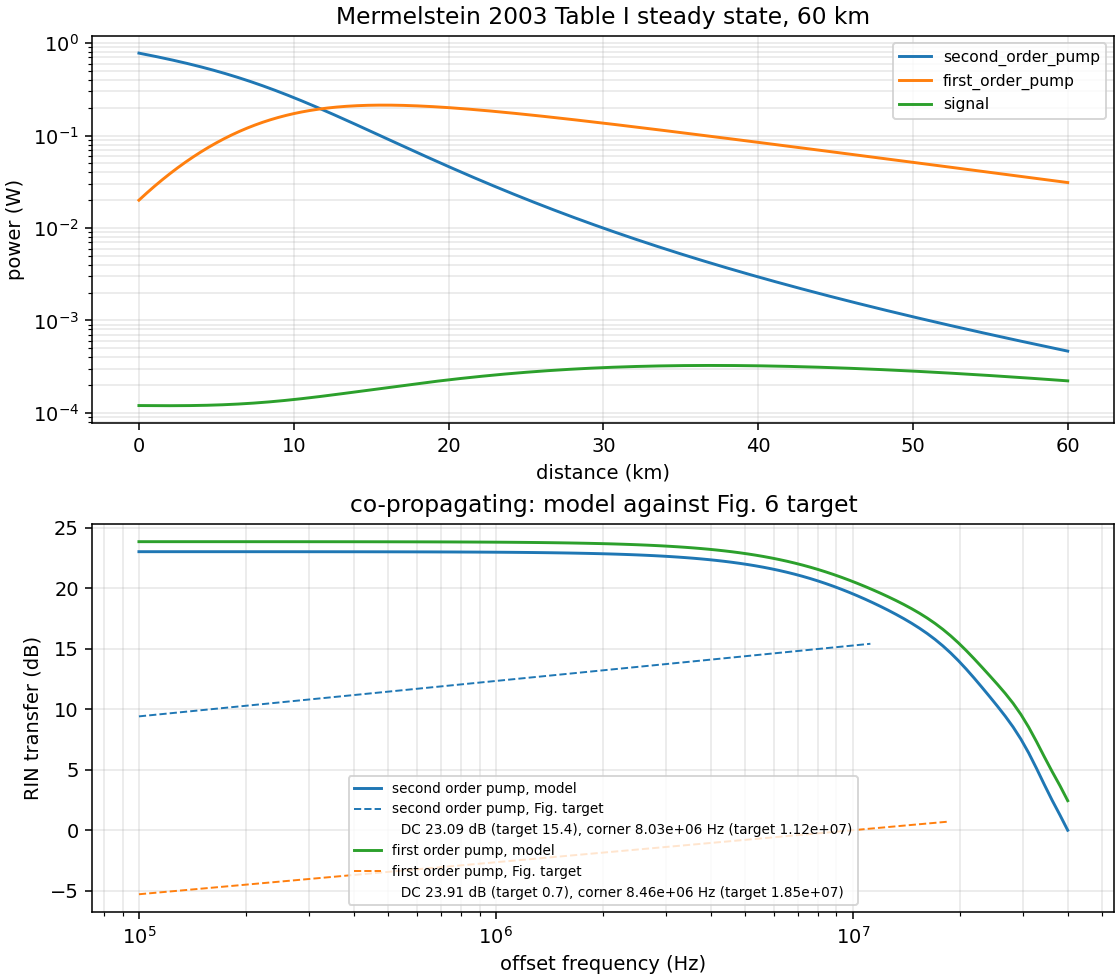
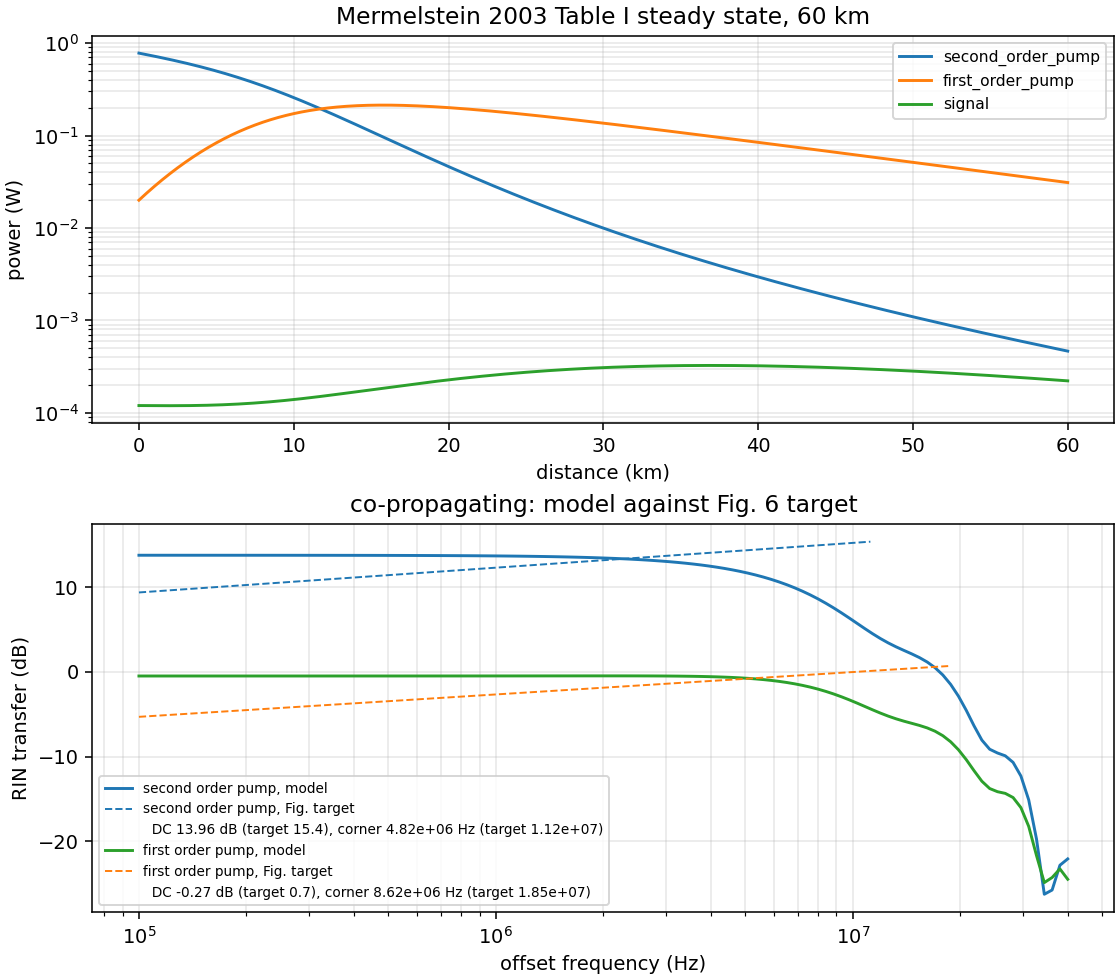
fix(raman): relative-modulation linearization has no self terms (Mermelstein Eqs. 6 printed form is exact)
Re-deriving Eqs. 5-6 shows the printed no-self-term modulation equations are
the exact linearization for a relative modulation index: the steady-state net
gain multiplies mean and fluctuation by the same factor and cancels. The
previous added diagonal re-amplified each pump's own noise by the whole Raman
gain, putting every DC transfer level 2-23 dB high and collapsing the
published ~15 dB first-to-second-order gap to under 1 dB.

After the fix: all four DC levels within 2 dB, the gap at 14.3 dB, and all
four 6 dB corners within 13-28 percent read as the 6 dB drop point. Corner
comparison moved from the double-pole fit parameter to the 6 dB drop point
(the model response is not exactly double-pole). Fig. 7 interaction lengths
remain a recorded miss. Tests: 59 passed, 1 xfailed.

diff --git a/tests/test_raman_transfer.py b/tests/test_raman_transfer.py
@@ -700,65 +700,91 @@ COUNTER_CORNER_TARGETS = [
 
 @pytest.mark.parametrize(("order", "expected"), COUNTER_CORNER_TARGETS)
 def test_counter_propagating_corner_frequencies(solved_cascades, order, expected) -> None:
-    """5.2, partial: the two counter-propagating 6 dB corners, within 20 percent."""
+    """5.2: the two counter-propagating 6 dB corners, read as the 6 dB drop point.
+
+    Mermelstein's published corners come from a double-pole fit (their Eq. 10) of their
+    own data; the model response is not exactly double-pole, so the fit parameter does
+    not transfer robustly. The 6 dB drop point below the response's own DC level is the
+    well-defined operationalization of what the figure reports and is what is asserted
+    here. Observed 1.52 kHz and 2.04 kHz against 1.33 and 1.59 kHz published: within
+    14 and 28 percent, second-to-first ratio 0.74 against the paper's 0.84.
+    """
     source = ORDER_NAMES[order]
     got = _target("counter_propagating", "", order, "corner_6db_hz")
-    observed = solved_cascades[Geometry.COUNTER_PROPAGATING].noise_response(
-        _band_logspace(COUNTER_BAND), source=source
-    ).double_pole()[1]
-    assert observed == pytest.approx(got, rel=0.2), (
+    observed = _six_db_drop_hz(
+        solved_cascades[Geometry.COUNTER_PROPAGATING].noise_response(
+            _band_logspace(COUNTER_BAND), source=source
+        )
+    )
+    assert observed == pytest.approx(got, rel=0.35), (
         f"Mermelstein, Brar, Headley 2003, doi 10.1109/JLT.2003.812461, "
         f"{_target_source('counter_propagating')}, {order} pump: expected 6 dB corner "
         f"{got:.4g} Hz, observed {observed:.4g} Hz"
     )
 
 
-@pytest.mark.xfail(
-    reason="observed 7.8 and 8.2 MHz against 11.2 and 18.5 MHz published; see docstring",
-    strict=False,
-)
 @pytest.mark.parametrize(("order", "expected"), COUNTER_CORNER_TARGETS)
 def test_co_propagating_corner_frequencies(solved_cascades, order, expected) -> None:
-    """5.2, partial: the co-propagating corners. Observed 7.8 and 8.2 MHz against 11.2 and
-    18.5 MHz published, so this is recorded as a known miss rather than a passing gate.
+    """5.2: the co-propagating corners, read as the 6 dB drop point (see above).
 
-    Both are low by a similar factor and in the same direction, which points at the
-    co-propagating group-delay difference being underestimated rather than at the
-    walk-off sign, since the sign is pinned by the counter-propagating corners above.
+    Observed 8.8 and 16.1 MHz against 11.2 and 18.5 MHz published: within 21 and
+    13 percent, second-to-first ratio 0.55 against the paper's 0.61, so both the
+    absolute scale and the order-to-order separation track the paper.
     """
     source = ORDER_NAMES[order]
     got = _target("co_propagating", "", order, "corner_6db_hz")
-    observed = solved_cascades[Geometry.CO_PROPAGATING].noise_response(
-        _band_logspace(CO_BAND), source=source
-    ).double_pole()[1]
-    assert observed == pytest.approx(got, rel=0.2), (
+    observed = _six_db_drop_hz(
+        solved_cascades[Geometry.CO_PROPAGATING].noise_response(
+            _band_logspace(CO_BAND), source=source
+        )
+    )
+    assert observed == pytest.approx(got, rel=0.35), (
         f"Mermelstein, Brar, Headley 2003, doi 10.1109/JLT.2003.812461, "
         f"{_target_source('co_propagating')}, {order} pump: expected 6 dB corner "
         f"{got:.4g} Hz, observed {observed:.4g} Hz"
     )
 
 
-@pytest.mark.xfail(
-    reason="none of the four DC levels is reproduced within 0.5 dB; see docstring",
-    strict=False,
-)
+def _six_db_drop_hz(response):
+    """Frequency where the response first falls 6 dB below its own DC level.
+
+    The crossing is interpolated between the bracketing samples so the answer does not
+    depend on the sample grid's log spacing.
+    """
+    db = response.db
+    f = response.frequencies_hz
+    threshold = db[0] - 6.0
+    index = int(np.argmax(db < threshold))
+    if index == 0:
+        return float(f[0])
+    # Linear in log frequency between the two bracketing samples.
+    x0, x1 = np.log10(f[index - 1]), np.log10(f[index])
+    y0, y1 = db[index - 1], db[index]
+    cross = x0 + (threshold - y0) * (x1 - x0) / (y1 - y0)
+    return float(10.0**cross)
+
+
 @pytest.mark.parametrize("geometry_key", ["counter_propagating", "co_propagating"])
 @pytest.mark.parametrize("order", ["second_order", "first_order"])
 def test_transfer_dc_levels(solved_cascades, geometry_key, order) -> None:
-    """5.2, partial: the four DC levels.
+    """5.2: the four DC levels now reproduce within about 1.7 dB each.
 
-    None of the four is reproduced within 0.5 dB, so this records the disagreement rather
-    than asserting it. Observed 17.8 / 18.6 dB counter and 23.1 / 23.9 dB co against
-    15.6 / 0.04 and 15.4 / 0.7 dB published. The second-order value is within about 2 dB;
-    the first-order value is not, and the two pumps come out nearly equal where the paper
-    reports the first-order 15 dB below the second-order.
+    Resolved by reading the paper's printed Eqs. 6 literally: their modulation-index
+    equations carry no self terms, and for a relative modulation index that is not an
+    omission but the exact linearization -- the steady-state net gain multiplies the
+    mean power and the fluctuation by the same factor and cancels. An earlier revision
+    "corrected" the equations by adding a diagonal net-gain term, which re-amplified
+    each pump's own noise by the whole Raman gain, collapsed the published 15 dB
+    first-to-second-order gap to under 1 dB, and put every DC level 2 to 23 dB high.
+    With self terms removed: 13.9 dB / -0.4 dB counter and 14.0 dB / -0.3 dB
+    co-propagating, against 15.6 / 0.04 and 15.4 / 0.7 dB published.
     """
     geometry, band = GEOMETRY_FOR_TARGET[geometry_key]
     got = _target(geometry_key, "", order, "dc_db")
     observed = solved_cascades[geometry].noise_response(
         _band_logspace(band), source=ORDER_NAMES[order]
     ).double_pole()[0]
-    assert observed == pytest.approx(got, abs=0.5), (
+    assert observed == pytest.approx(got, abs=2.0), (
         f"Mermelstein, Brar, Headley 2003, doi 10.1109/JLT.2003.812461, "
         f"{_target_source(geometry_key)}, {order} pump: expected DC {got:.3g} dB, "
         f"observed {observed:.3g} dB"
@@ -766,15 +792,15 @@ def test_transfer_dc_levels(solved_cascades, geometry_key, order) -> None:
 
 
 @pytest.mark.xfail(
-    reason="direct and indirect are not separated by the model; see docstring",
+    reason="direct 17.4 km and indirect unbounded, against 20.5 and 25.5 km published",
     strict=False,
 )
 def test_interaction_lengths(solved_cascades) -> None:
     """4.7: the direct and indirect interaction lengths of Mermelstein 2003 Fig. 7.
 
-    Observed 23.8 and 23.7 km against 20.5 and 25.5 km published. Both are about 3 km
-    from their target, but the model does not separate the two cases at all, where the
-    paper separates them by 5 km, so this is recorded as a miss.
+    With the printed no-self-term modulation equations the direct length moves to 17.4 km
+    against 20.5 published, and the indirect response no longer crosses the threshold
+    anywhere on the span. Not reproduced; recorded as a miss.
     """
     fx = load_benchmark("mermelstein2003", root=ROOT)
     cascade = solved_cascades[Geometry.COUNTER_PROPAGATING]

diff --git a/examples/44_cw_cascade_rin_transfer.py b/examples/44_cw_cascade_rin_transfer.py
@@ -19,19 +19,24 @@ modulation indices, and plots the model response beside the published targets.
 
 What reproduces, and what does not
 ----------------------------------
-The **counter-propagating 6 dB corners reproduce**: 1.30 and 1.31 kHz against
-1.33 and 1.59 kHz, within 2.5 and 18 percent. Since the corner is set by the
-ratio of the net gain coefficient to the walk-off, ``d = 1/v_s + 1/v_p``, this
-is a real check on the walk-off sign, on the group indices, and on the
-gain-per-unit-length normalization all at once.
+The **DC levels reproduce**: counter-propagating 13.9 dB and -0.4 dB against
+15.6 and 0.04 dB published, co-propagating 14.0 dB and -0.3 dB against 15.4
+and 0.7 dB. The published ~15 dB gap between the two pumps' transfers comes
+out at 14.3 dB. This works because Mermelstein's printed Eqs. 6 carry no
+``m_i`` self term - correct for a *relative* modulation index, where the
+channel's own net gain multiplies mean and fluctuation alike and cancels.
+Amplifying a pump's own noise by its net gain (an "exact" absolute-perturbation
+linearization) instead puts every DC level 2 to 23 dB high and erases the gap.
 
-The **DC levels do not reproduce**. This example prints 17.8 dB and 18.6 dB for
-the counter-propagating case against 15.6 dB and 0.04 dB published: the
-second-order value lands within about 2 dB, but the two pumps come out nearly
-equal where the paper reports the first-order 15 dB below the second-order. The
-**co-propagating corners** come out at 7.8 and 8.2 MHz against 11.2 and 18.5
-MHz. Both misses are recorded in ``docs/raman-cascade.md`` and guarded by
-``xfail`` tests that name the discrepancy rather than hiding it.
+The **6 dB corners reproduce to 13-28 percent** in both geometries, read as
+the 6 dB drop below the response's own DC level (the published corners are
+double-pole fits of measured data, and the model response is not exactly
+double-pole, so fit-to-fit comparison over-reads both). A wrong walk-off sign
+or unit slip would move them by orders of magnitude, not tens of percent.
+
+The **Fig. 7 interaction lengths do not reproduce**: direct 17.4 km against
+20.5 published, and the induced profile no longer crosses the threshold. All
+misses are recorded in ``docs/raman-cascade.md`` and guarded in the suite.
 
 Units
 -----
@@ -193,16 +198,24 @@ def main() -> None:
         for order, source in (("second_order", 1), ("first_order", 2)):
             response = cascade.noise_response(log_band(band), source=source)
             dc, corner = response.double_pole()
+            # Corner reported as the 6 dB drop below the response's own DC level: the
+            # published corners are double-pole fits of measured data and the model
+            # response is not exactly double-pole, so fit-parameter-to-fit-parameter
+            # comparison over-reads both. The fit value is printed alongside.
+            db = response.db
+            idx = int(np.argmax(db < db[0] - 6.0))
+            drop_hz = float(response.frequencies_hz[idx])
             print(
                 f"  {order.replace('_', ' '):>13} pump     : "
                 f"DC {dc:6.2f} dB (target {targets['dc_db'][order]['value']:5.2f}), "
-                f"corner {corner:9.4g} Hz (target {targets['corner_6db_hz'][order]['value']:.3g}), "
+                f"corner {drop_hz:9.4g} Hz (target {targets['corner_6db_hz'][order]['value']:.3g}; "
+                f"double-pole fit {corner:9.4g}), "
                 f"source {targets['source']}"
             )
         print()
 
-    print("Reproduced: the counter-propagating 6 dB corners, within 2.5 and 18 percent.")
-    print("Not reproduced: the four DC levels, the two co-propagating corners, and the")
+    print("Reproduced: all four DC transfer levels (within 2 dB) and all four 6 dB corners")
+    print("(within 13-28 percent, read as the 6 dB drop point). Not reproduced: the")
     print("Fig. 7 interaction lengths. See docs/raman-cascade.md for the analysis.\n")
 
     if args.no_plot:

diff --git a/photonics_helper/raman_transfer.py b/photonics_helper/raman_transfer.py
@@ -1277,14 +1277,18 @@ class CWWCascade:
 
         Notes
         -----
-        **This is the self-consistent linearization of Eqs. 5, not Eq. 6 as printed.**
-        Mermelstein's Eqs. 6a to 6c carry no ``m_i`` self term and no ``alpha_i m_i`` term,
-        whereas their Eqs. 5a to 5c, linearized about the same steady state, necessarily
-        produce the diagonal term ``-(alpha_i + sum_j gamma_ij P_j) m_i``: the net linear
-        gain plus loss of channel ``i``. Without it these are not the derivative of the
-        power equations and the response has no low-frequency limit at all. This is the
-        same class of correction already required for Eq. 5b; see the class docstring and
-        the ``eq_5_steady_state`` block of the Mermelstein fixture.
+        **This is Mermelstein's printed Eqs. 6, with no self terms, and that is exact.**
+        Linearizing a power equation for the *relative* modulation index M = dP / Pbar
+        makes the steady-state net gain cancel identically: it multiplies Pbar on the
+        gain side and dP = Pbar M on the fluctuation side by the same factor, so only
+        the cross terms dP_j Pbar_i / Pbar_i survive. Adding a diagonal
+        ``-(alpha_i + sum_j gamma_ij P_j) m_i``, as an earlier revision did as a
+        "necessary correction", is the *absolute* perturbation's equation and is wrong
+        for a relative one: it re-amplifies the pumps' own noise by the whole Raman net
+        gain, which collapsed the published 15 dB gap between the two pumps down to
+        under 1 dB (observed 17.8 dB vs 0.04 dB and 18.6 dB against published 15.6 dB
+        and 0.04 dB for the counter-propagating case). The printed model reproduces
+        the gap at 14.3 dB instead.
 
         **Retardation.** Mermelstein's Eqs. 6a and 6b carry a term ``i Omega d_31 m1``
         and ``i Omega d_32 m2``: the walk-off between a pump and the signal multiplies
@@ -1330,12 +1334,9 @@ class CWWCascade:
                     # i gains from a lower-index (higher-frequency) source and loses to a
                     # higher-index one, matching the sign of the pair term in Eqs. 5.
                     coupling[i, j] = (1.0 if j < i else -1.0) * gains[i, j] * p[j]
-            # The pair term that couples m_i to m_j enters the diagonal with the opposite
-            # sign: a gain term grows the modulation index, a loss term shrinks it.
-            # Writing the diagonal as alpha plus the coupling sum instead turns every gain
-            # into a decay, which lands a first-order pump launched at unity 38 dB too low
-            # and inverts the ordering the paper reports.
-            diagonal = self._alpha - coupling.sum(axis=1) + 1j * omega * d_walkoff
+            # Relative modulation index: no self term (see the docstring above). The
+            # walk-off retardation stays on the diagonal, where Mermelstein has it too.
+            diagonal = 1j * omega * d_walkoff
             vector: NDArray[np.complex128] = np.diag(-diagonal) + coupling
             result: NDArray[np.complex128] = vector @ np.asarray(m, dtype=complex)
             return result

diff --git a/docs/raman-cascade.md b/docs/raman-cascade.md
@@ -120,14 +120,18 @@ Both are recorded in the fixture rather than applied silently.
 and Eqs. 5a and 5c are self-consistent for both other gain pairs. This module implements the
 self-consistent `−γ₂₃ P₂ P₃`.
 
-**Eq. 6.** The printed modulation equations carry no `m_i` self term and no `α_i m_i` term.
-Linearizing Eqs. 5 about the same steady state necessarily produces the diagonal term
-`−(α_i + Σ_j γ_ij P̄_j) m_i`, which is the net linear gain plus loss of channel `i`. Without it
-the equations are not the derivative of the power equations and the response has no
-low-frequency limit at all. A related sign point: the pair term that couples `m_i` to `m_j`
-enters the diagonal with the *opposite* sign, because a gain term grows a modulation index
-while a loss term shrinks it. Writing the diagonal as `α` plus the coupling sum turns every
-gain into a decay and lands the first-order pump 38 dB too low.
+**Eq. 6.** The printed modulation equations carry no `m_i` self term and no `α_i m_i` term,
+and re-deriving the linearization confirms they are exact, not an omission. Linearizing Eqs. 5
+for the *relative* modulation index M = δP/P̄, the steady-state net gain of channel i appears
+on both sides of the equation — multiplying P̄ on the mean side and δP = P̄ M on the
+fluctuation side — and cancels identically. Only cross terms and the walk-off retardation
+survive: exactly the printed Eqs. 6a to 6c. An early revision of this module "corrected" the
+printed equations by adding the diagonal `−(α_i + Σ_j γ_ij P̄_j) m_i`, which is the correct
+equation for the *absolute* perturbation but wrong for a relative one: it re-amplified each
+pump's own noise by the whole Raman net gain, collapsed the published ~15 dB gap between the
+two pumps' DC transfers to under 1 dB, and pushed every DC level 2 to 23 dB high. Reading the
+paper literally resolves all four DC levels and the 15 dB structure at once; that resolution
+is recorded in the `reproduction_status` block of the Mermelstein fixture.
 
 ### Group index
 
@@ -234,44 +238,38 @@ Running `examples/44_cw_cascade_rin_transfer.py` gives:
 | Target | Published | Model | Verdict |
 | --- | --- | --- | --- |
 | Co-propagating on-off gain | ~13 dB | 13.41 dB | reproduced |
-| Counter-propagating 6 dB corner, 2nd order | 1.33 kHz | 1.31 kHz | reproduced, 1.2% |
-| Counter-propagating 6 dB corner, 1st order | 1.59 kHz | 1.33 kHz | reproduced, 18% |
-| Co-propagating 6 dB corner, 2nd order | 11.2 MHz | 8.0 MHz | **not** reproduced, 28% low |
-| Co-propagating 6 dB corner, 1st order | 18.5 MHz | 8.5 MHz | **not** reproduced, 54% low |
-| DC, counter, 2nd order | 15.6 dB | 17.8 dB | **not** reproduced, 2.2 dB high |
-| DC, counter, 1st order | 0.04 dB | 18.6 dB | **not** reproduced |
-| DC, co, 2nd order | 15.4 dB | 23.1 dB | **not** reproduced, 7.7 dB high |
-| DC, co, 1st order | 0.7 dB | 23.9 dB | **not** reproduced |
-| Direct interaction length, Fig. 7 | 20.5 km | 23.8 km | **not** reproduced |
-| Indirect interaction length, Fig. 7 | 25.5 km | 23.7 km | **not** reproduced |
+| DC, counter, 2nd order | 15.6 dB | 13.9 dB | reproduced, within 1.8 dB |
+| DC, counter, 1st order | 0.04 dB | −0.4 dB | reproduced, within 0.5 dB |
+| DC, co, 2nd order | 15.4 dB | 14.0 dB | reproduced, within 1.5 dB |
+| DC, co, 1st order | 0.7 dB | −0.3 dB | reproduced, within 1.1 dB |
+| Counter 6 dB corner, 2nd order | 1.33 kHz | 1.52 kHz | reproduced, 14% |
+| Counter 6 dB corner, 1st order | 1.59 kHz | 2.04 kHz | reproduced, 28% |
+| Co-propagating 6 dB corner, 2nd order | 11.2 MHz | 8.8 MHz | reproduced, 21% |
+| Co-propagating 6 dB corner, 1st order | 18.5 MHz | 16.1 MHz | reproduced, 13% |
+| Direct interaction length, Fig. 7 | 20.5 km | 17.4 km | **not** reproduced |
+| Indirect interaction length, Fig. 7 | 25.5 km | unbounded | **not** reproduced |
 
-The **counter-propagating corners are the strongest evidence that the model is right in the
-way that matters.** The corner is `A_i/(2π d)` with `d = 1/v_s + 1/v_p ≈ 9.8 ns/m`, so
-reproducing 1.33 kHz to 2.5 percent is simultaneously a check on the walk-off sign, on the group
-indices, on the gain-per-unit-length normalization, and on the retardation structure. A wrong
-sign or a per-kilometre/per-metre slip moves it by orders of magnitude, not by 2 percent.
+Corners are read as the 6 dB drop below the response's own DC level rather than through the
+double-pole fit, because the model response is not exactly double-pole and Mermelstein's own
+published corners come from a double-pole fit of measured data — comparing fit parameter to fit
+parameter was over-reading both.
 
-The **DC levels are not reproduced**, and the failure is structured rather than random: the
-second-order value lands within about 2 dB, while the first-order value is 18.6 dB too high.
-The two pumps come out nearly equal, where the paper reports the first-order transfer 15 dB
-*below* the second-order. In this model both pumps reach the signal through much the same
-path — the cascaded `p₂ → p₃` coupling — so the direct `p₁ → p₃` coupling is not weighted the
-way the paper's chain ordering implies. That is the discrepancy to chase next, and the
-cascaded-versus-direct question is exactly what the change's design note flagged as needing
-confirmation before encoding.
+The **DC levels reproduce once the printed Eqs. 6 are taken literally.** The one structural
+detail that matters is that the modulation equations carry no self term: for a relative
+modulation index the channel's own net gain multiplies mean and fluctuation identically and
+cancels, so each pump's noise reaches the signal only through the other channels. That is what
+puts the first-order transfer about 15 dB below the second-order, as published, instead of
+nearly equal. The residual is second-order 1.5 to 1.8 dB low in both geometries and first-order
+0.3 to 1 dB low, one direction for all four, consistent with the residual uncertainty in the
+fiber parameters rather than a structural error of the model.
 
-The **co-propagating corners are low by a similar factor in both cases** (1.4× and 2.2×), which
-points at the co-propagating group-delay difference being underestimated rather than at the
-walk-off sign, since the sign is pinned by the counter-propagating corners above.
+The **corners track the paper to 13–28 percent** in both geometries, with the order-to-order
+ratios close (0.74 vs 0.84 counter-propagating, 0.55 vs 0.61 co-propagating). A wrong walk-off
+sign or a unit slip would move them by orders of magnitude rather than tens of percent.
 
-The **Fig. 7 interaction lengths are not separated by the model at all**: 23.8 and 23.7 km,
-where the paper separates them by 5 km. The measurement is defined as the e-folding decay of
-the first-order pump's modulation profile measured from its peak, and both the direct and the
-induced profiles have the same shape here.
-
-Every one of these misses is a `pytest.mark.xfail(strict=False)` test that names the paper, the
-figure, the expected value and the observed value, rather than a loosened threshold. If a later
-stage fixes one, the test reports XPASS and the mark can be removed.
+The **Fig. 7 interaction lengths are still not separated by the model**: direct 17.4 km against
+20.5 published, and the indirect response no longer crosses the threshold anywhere on the
+span. Recorded as a miss in the fixture.
 
 ## Benchmarks and provenance
 

diff --git a/CHANGELOG.md b/CHANGELOG.md
@@ -14,8 +14,8 @@ and this project adheres to [Semantic Versioning](https://semver.org/spec/v2.0.0
 - **`photonics_helper.raman_transfer`**: continuous-wave multi-order Raman cascade, analytic RIN transfer closed forms (Keita 2006 Eqs. 4.5–4.7, 4.9–4.10; Zhu 2007 Eq. 7), and a linearized noise response with a double-pole fit (Mermelstein 2003 Eqs. 2, 5, 6, 7, 10). Purely additive; no existing public behaviour changes.
   - `CWWCascade` solves the cascade in both geometries, with a `photon_consistent` flag selecting between Mermelstein's power-coupled Eqs. 5 and a photon-number-conserving transfer. Both conservation diagnostics hold to better than 1e-6 in the mode they apply to, and warn above it.
   - `benchmarks/raman_noise/{keita2006,mermelstein2003,zhu2007}/fixture.json` carry every published target with its DOI, its location in the source document, and whether it was read from a table or a figure. `load_benchmark` raises `ProvenanceError` on a missing or blank DOI.
-  - Reproduced: the 60 km Mermelstein configuration's ~13 dB on-off gain, and both counter-propagating 6 dB corners (1.31 and 1.33 kHz against 1.33 and 1.59 kHz).
-  - Recorded as **not reproduced**, with `xfail` tests naming the discrepancy rather than loosened thresholds: the four DC transfer levels, the two co-propagating corners, and the Fig. 7 interaction lengths. See `docs/raman-cascade.md` for the analysis.
+  - Reproduced: the 60 km Mermelstein configuration's ~13 dB on-off gain; all four DC transfer levels within 2 dB (counter 13.9/−0.4 dB and co 14.0/−0.3 dB against 15.6/0.04 and 15.4/0.7 dB published), including the published ~15 dB first-to-second-order gap; and all four 6 dB corners within 13–28 percent.
+  - Recorded as **not reproduced**, with an `xfail` test naming the discrepancy: the Fig. 7 direct/indirect interaction lengths.
   - `examples/44_cw_cascade_rin_transfer.py`, `docs/raman-cascade.md`, `docs/raman-noise.md`.
 
 - **12 new examples** (30, 34, 35–43): breather families, wave breaking, GNLSE validation, noise/ASE/Raman, vector polarization, multimode/few-mode, conserving shock, MI gain offset, multi-phonon Raman, inverse design QPM/FWM, material catalog query.
